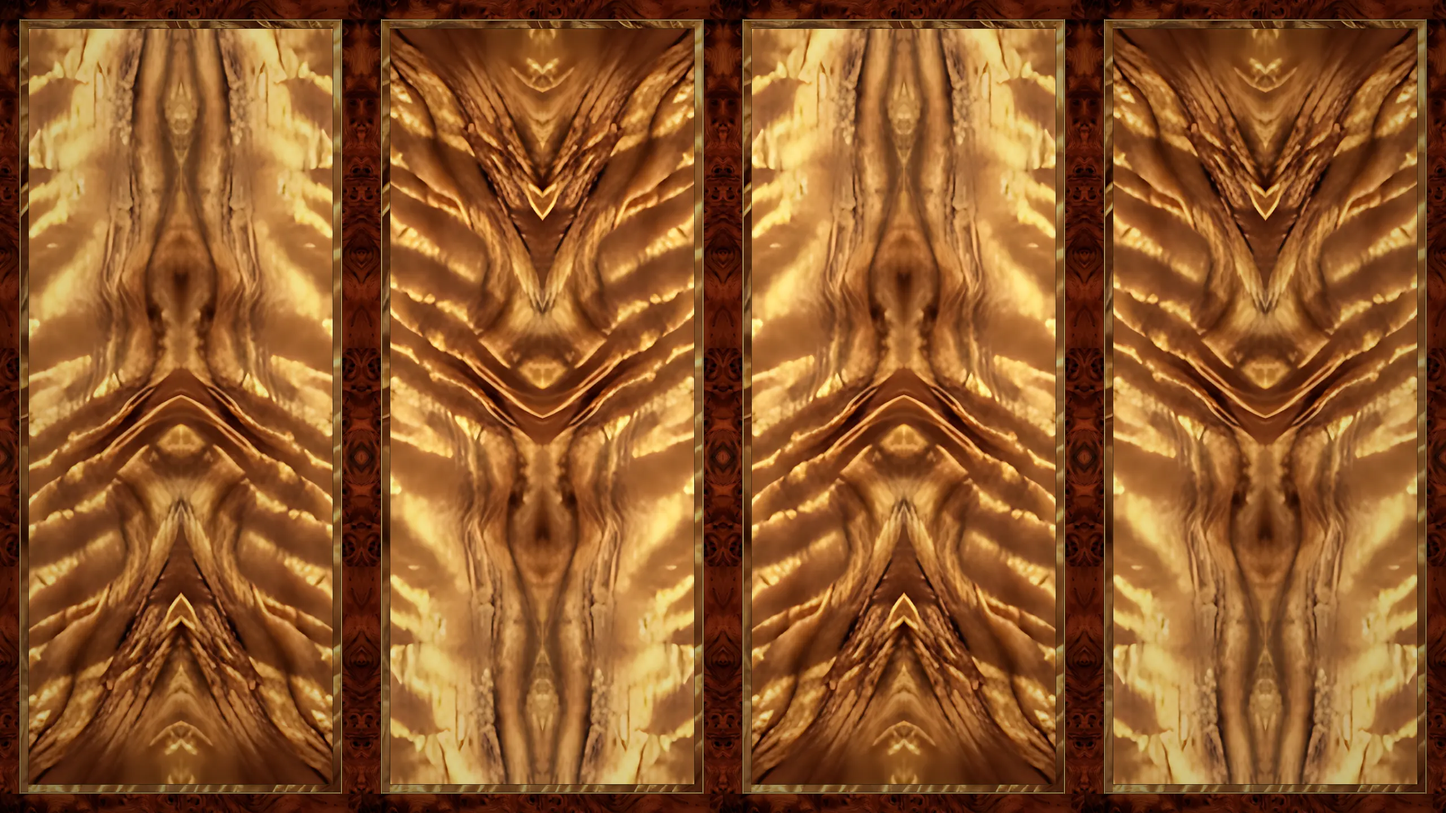
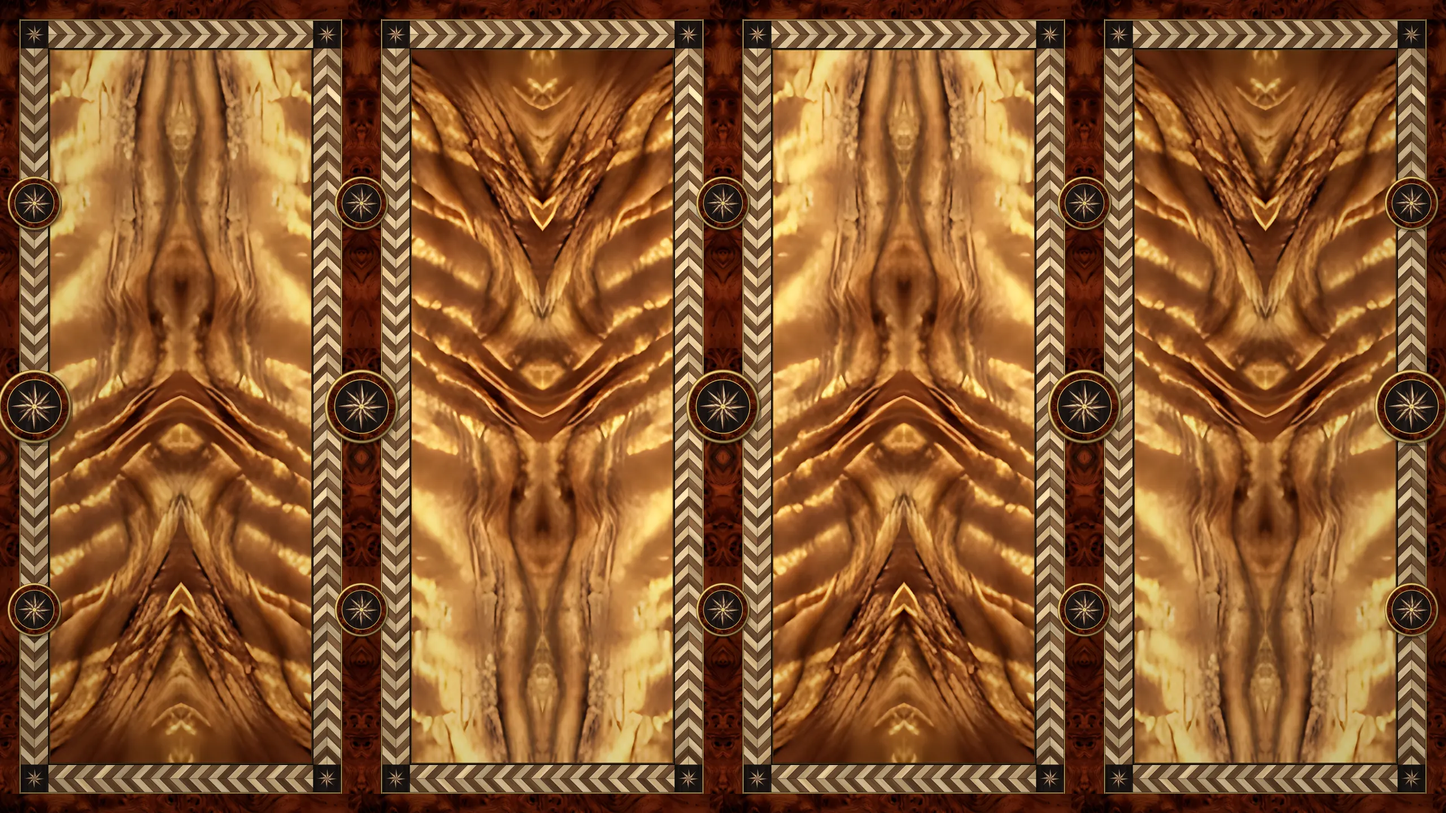
0.95: scritte chiare, intarsi sui lati, orologio e data in alto

diff --git a/style.css b/style.css
@@ -2057,3 +2057,82 @@ body.lusso[data-legno="intarsio"] .casa-card.tre{--fin-t:8.6%;--fin-r:15.4%;--fi
 .sofia-hero[data-stato="ascolto"] .casa-card.tre{--tre-scala:1.135}
 /* i tondi (voce e menu) in basso a destra, cosi' non le coprono la testa */
 .sofia-hero .casa-card.tre .casa-tondi{z-index:5;top:auto;bottom:calc(var(--fin-b) + 10px);right:calc(var(--fin-r) + 10px)}
+
+/* =====================================================================================================
+   0.95 - SCRITTE CHIARE (Michele: "rendi piu' chiare tutte le scritte perche' cosi' non si capisce niente")
+   Regole per tutta la parte del titolare (stili di lusso): niente scritte direttamente sul legno (sempre su una
+   targa piena e scura), testo scuro e pieno sulle schede avorio (che non lasciano piu' trasparire il legno),
+   niente corsivi sottili, niente scritte sotto i 12 px, niente tasti "spenti" mezzi trasparenti.
+   ===================================================================================================== */
+body.lusso{--fg:#1F140A;--muted:#46362A;--muted2:#55432F;--card:#FBF5E8;--card-pieno:#FFFAF1;--line:rgba(70,45,15,.18);--line2:rgba(70,45,15,.12)}
+:root[data-theme="dark"] body.lusso{--fg:#FFF6E6;--muted:#E8D9BC;--muted2:#DACAA8;--card:#24170F;--card-pieno:#2A1B12;--line:rgba(255,230,180,.18);--line2:rgba(255,230,180,.12)}
+body.lusso .small{font-size:14.5px}
+body.lusso .day{font-size:11.5px}
+body.lusso .day b{font-size:18px}
+body.lusso .tabs button{font-size:13px;letter-spacing:.02em;padding:10px 4px}
+body.lusso .seg button{font-size:13px}
+body.lusso .badge{font-size:12.5px}
+body.lusso .btnsm{font-size:13px}
+body.lusso .el-pill,body.lusso .tess-flag{font-size:12px}
+body.lusso .tess-pr{font-size:13px}
+body.lusso .tess-osp{font-size:14px}
+body.lusso .piano-eti{font-size:13px;letter-spacing:.08em;color:var(--fg)}
+body.lusso .sig-nome{font-size:13px}
+body.lusso .sig-sotto{font-size:13px}
+body.lusso .el-camera-ancora{font-size:13px}
+body.lusso .floorlabel{font-size:14px;color:var(--fg)}
+body.lusso .come-si-vede h3{font-size:14px;color:var(--fg)}
+body.lusso .casa-t{font-size:12.5px}
+body.lusso h1 small{font:600 13.5px var(--f-body);color:#F6EAD2}
+body.lusso h1 .fl{color:#F6EAD2}
+/* i tasti che non si possono toccare (es. "Segna come pagata" a 0 euro): niente mezza trasparenza, si leggono lo stesso */
+body.lusso button:disabled,body.lusso .btnsm:disabled,body.lusso .big:disabled{opacity:1;background:#E8DECB!important;color:#5E4E3A!important;text-shadow:none!important;box-shadow:inset 0 0 0 1px rgba(90,62,20,.35)!important;filter:none}
+:root[data-theme="dark"] body.lusso button:disabled,:root[data-theme="dark"] body.lusso .btnsm:disabled,:root[data-theme="dark"] body.lusso .big:disabled{background:#3A2A1E!important;color:#D2BE9E!important}
+/* le scritte che stavano sulla parete: avorio pieno */
+body.lusso .card.flat>p.muted,body.lusso .card.flat>.muted,body.lusso main>.muted,body.lusso main>p,body.lusso .banner.info{color:var(--avorio)}
+body.lusso .cc-scelto{color:var(--avorio)}
+/* la prima pagina: saluto, frase e consiglio su una targa scura con il filo d'oro (prima erano sul legno) */
+body.lusso .casa-testo{position:relative;padding:14px 16px 12px;border-radius:16px;background:linear-gradient(180deg,rgba(30,15,7,.94),rgba(18,8,3,.96));border:1px solid rgba(214,175,92,.9);box-shadow:inset 0 0 0 3px rgba(18,8,3,.95),inset 0 0 0 4px rgba(214,175,92,.4),0 12px 26px -14px rgba(0,0,0,.95);gap:7px}
+body.lusso[data-legno="legno"] .casa-testo{background:linear-gradient(180deg,rgba(28,12,5,.9),rgba(16,7,2,.93)),url(radica.webp) center/cover}
+body.lusso .casa-testo::before,body.lusso[data-legno="legno"] .casa-testo::before{content:none;display:none}
+body.lusso .casa-sal{color:#FFF8EA;text-shadow:0 1px 2px rgba(0,0,0,.6);font-size:clamp(19px,5.4vw,23px);line-height:1.25;-webkit-line-clamp:4}
+body.lusso .casa-sal.lunga{font-size:clamp(17px,4.7vw,20px)}
+body.lusso .casa-riga{color:#F5EBD8;font-size:clamp(15px,4vw,16.5px);font-weight:500;line-height:1.4;text-shadow:none;-webkit-line-clamp:3}
+body.lusso .casa-spinta{font-family:var(--f-body);font-style:normal;font-weight:600;color:#F3D68E;font-size:clamp(14.5px,3.9vw,16px);line-height:1.4;text-shadow:none}
+body.lusso .casa-info{color:#EAD7AE;font-size:12.5px;letter-spacing:.05em;text-shadow:none;white-space:normal;overflow:visible;text-overflow:clip;line-height:1.45}
+/* Legno d'oro: testata piu' scura (il titolo d'oro e la riga sotto si leggono), schede in alto chiare e calme
+   con le scritte scure, quella scelta scura con le lettere d'oro; targhe di radica piu' scure */
+body.lusso[data-legno="legno"] header{background:linear-gradient(180deg,rgba(20,8,3,.42),rgba(10,4,1,.62)),url(radica.webp) center/cover}
+body.lusso[data-legno="legno"] .tabs{background:linear-gradient(180deg,rgba(255,247,226,.66),rgba(250,236,200,.58)),url(legno-oro.webp) center/cover}
+body.lusso[data-legno="legno"] .tabs button{color:#1F1108;text-shadow:0 1px 0 rgba(255,250,235,.8)}
+body.lusso[data-legno="legno"] .tabs button[aria-pressed="true"]{background:linear-gradient(180deg,#3E2414,#1E0F07);color:#F8E4AF;text-shadow:0 1px 1px rgba(0,0,0,.6);box-shadow:inset 0 0 0 1.5px #C9A55A,0 2px 6px rgba(0,0,0,.45)}
+body.lusso[data-legno="legno"] .card.flat{background:linear-gradient(180deg,rgba(26,11,4,.86),rgba(16,7,2,.9)),url(radica.webp) center/cover}
+/* schede avorio PIENE: prima lasciavano trasparire un filo di legno dietro alle parole */
+body.lusso .card:not(.flat),body.lusso .conferma-box,body.lusso .menu,body.lusso .rows,body.lusso .board-wrap{background:linear-gradient(180deg,#FFFBF3 0%,#FAF3E4 55%,#F4EAD6 100%)}
+/* Piantine: le camere senza niente da fare avevano il nome grigio chiaro */
+body.lusso .tess.idle{--tx:#2E2418;--tx2:#4A3B2A;--metal:linear-gradient(180deg,#4A3B2A,#2A1E12)}
+/* la foto di Sofia un filo piu' bassa, cosi' con le scritte piu' grandi i tasti restano vicini */
+body.lusso .casa-card{height:min(calc(50svh - 16px),calc(84vw * 16 / 9))}
+@media (min-width:760px){body.lusso .casa-card{height:min(calc(50svh - 16px),480px)}}
+/* 0.95 - OROLOGIO E DATA: due medaglioni di radica e oro (come i rosoni della parete) ai lati della targa in alto.
+   Quadrante d'acero con gli indici d'ebano intarsiati (orologio-quadrante.webp), lancette d'ebano filettate d'oro,
+   lancetta dei secondi bordeaux; il datario (datario-quadrante.webp) con SAB / 24 / OTT scuri sull'acero. */
+.casa-orologio,.casa-data{display:none}
+body.lusso .casa-testa{position:relative;--med:clamp(60px,17vw,80px)}
+body.lusso .sofia-hero:not([data-orologio="no"]) .casa-orologio,body.lusso .sofia-hero:not([data-orologio="no"]) .casa-data{position:absolute;top:50%;width:var(--med);height:var(--med);margin-top:calc(var(--med) / -2 + 8px);border-radius:50%;background:url(orologio-quadrante.webp) center/100% 100% no-repeat;filter:drop-shadow(0 6px 9px rgba(0,0,0,.6));z-index:2}
+body.lusso .sofia-hero:not([data-orologio="no"]) .casa-orologio{display:block;left:0}
+body.lusso .sofia-hero:not([data-orologio="no"]) .casa-data{display:flex;flex-direction:column;align-items:center;justify-content:center;right:0;background-image:url(datario-quadrante.webp);color:#1E1009;line-height:1;gap:1px}
+.casa-orologio i{position:absolute;left:50%;bottom:50%;transform-origin:50% 100%;border-radius:999px}
+.casa-orologio .or-h{width:7%;height:23%;margin-left:-3.5%;background:linear-gradient(90deg,#3A2414,#160B05);box-shadow:0 0 0 1px rgba(214,175,92,.95),0 1px 2px rgba(0,0,0,.45);transform:rotate(var(--oh,0deg))}
+.casa-orologio .or-m{width:4.8%;height:34%;margin-left:-2.4%;background:linear-gradient(90deg,#3A2414,#160B05);box-shadow:0 0 0 1px rgba(214,175,92,.95),0 1px 2px rgba(0,0,0,.45);transform:rotate(var(--om,0deg))}
+.casa-orologio .or-s{width:1.8%;height:39%;margin-left:-.9%;background:#8E1F1F;box-shadow:0 1px 1px rgba(0,0,0,.35);transform:rotate(var(--os,0deg))}
+.casa-orologio .or-c{top:50%;bottom:auto;width:12%;height:12%;margin:-6% 0 0 -6%;border-radius:50%;background:radial-gradient(circle at 35% 35%,#FFF1C2,#C9A55A 55%,#6B4A14)}
+.casa-data b{display:block;font-variant-numeric:tabular-nums}
+.casa-data .dt-g,.casa-data .dt-m{font:800 calc(var(--med) * .14)/1 var(--f-display);letter-spacing:.03em;color:#3E1E0E}
+.casa-data .dt-n{font:700 calc(var(--med) * .32)/.95 var(--f-lusso);color:#1A0D06;margin:0}
+/* telefoni stretti: la targa un filo piu' compatta, cosi' i due medaglioni non la toccano */
+@media (max-width:400px){
+  body.lusso .casa-testa{--med:clamp(54px,16vw,64px)}
+  body.lusso .casa-nome{font-size:12.5px;letter-spacing:.16em}
+  body.lusso[data-legno="legno"] .casa-nome{padding:5px 12px}
+}

diff --git a/app.js b/app.js
@@ -16,7 +16,7 @@ import * as VOCE from "./voce.js";
 import * as GESTI from "./gesti.js";
 import * as BOCCA from "./bocca.js";
 
-export const VERSIONE = "0.94.0";
+export const VERSIONE = "0.95.0";
 
 // Icone (SVG semplici, tratto 2px). Si usano con ICONA("nome").
 const ICONE_SVG = {
@@ -196,6 +196,40 @@ try {
     TRE.ult = performance.now(); TRE.fermoDa = 0;
   }, { passive: true });
 } catch (e) {}
+// 0.95: OROLOGIO E DATA (Michele: "magari anche un orologio con data da qualche parte, ma sempre stile questo").
+// Due medaglioni di radica e oro ai lati della targa "Le Stanze di Ricci", in alto nella schermata di casa:
+// a sinistra l'orologio (quadrante d'acero con gli indici d'ebano, lancette vere), a destra la data (SAB / 24 / OTT).
+// Solo negli stili di lusso del titolare. Si toglie da "Come si vede l'app" -> "6. Orologio e data".
+const CHIAVE_OROLOGIO = "ricci_orologio";
+function orologioVoluto() { try { return localStorage.getItem(CHIAVE_OROLOGIO) !== "no"; } catch (e) { return true; } }
+const OROLOGIO_HTML = `<span class="casa-orologio" role="img" aria-label="Ora"><i class="or-h"></i><i class="or-m"></i><i class="or-s"></i><i class="or-c"></i></span>`;
+const DATARIO_HTML = `<span class="casa-data" role="img" aria-label="Data"><b class="dt-g"></b><b class="dt-n"></b><b class="dt-m"></b></span>`;
+let orologioTimer = null;
+function orologioGira() {
+  const o = document.querySelector(".casa-orologio");
+  if (!o) { clearInterval(orologioTimer); orologioTimer = null; return; }
+  if (document.hidden) return;
+  const d = new Date();
+  const s = d.getSeconds(), m = d.getMinutes() + s / 60, h = (d.getHours() % 12) + m / 60;
+  o.style.setProperty("--oh", (h * 30).toFixed(2) + "deg");
+  o.style.setProperty("--om", (m * 6).toFixed(2) + "deg");
+  o.style.setProperty("--os", (s * 6) + "deg");
+  o.setAttribute("aria-label", "Sono le " + d.getHours() + " e " + String(d.getMinutes()).padStart(2, "0"));
+  const dt = document.querySelector(".casa-data");
+  if (dt) {
+    const chiave = d.toDateString();
+    if (dt.dataset.giorno !== chiave) {
+      dt.dataset.giorno = chiave;
+      const pulisci = (x) => String(x || "").replace(/\./g, "").toUpperCase();
+      const g = dt.querySelector(".dt-g"), n = dt.querySelector(".dt-n"), mm = dt.querySelector(".dt-m");
+      if (g) g.textContent = pulisci(d.toLocaleDateString("it-IT", { weekday: "short" })).slice(0, 3);
+      if (n) n.textContent = String(d.getDate());
+      if (mm) mm.textContent = pulisci(d.toLocaleDateString("it-IT", { month: "short" })).slice(0, 3);
+      dt.setAttribute("aria-label", d.toLocaleDateString("it-IT", { weekday: "long", day: "numeric", month: "long" }));
+    }
+  }
+}
+function orologioAvvia() { orologioGira(); if (!orologioTimer) orologioTimer = setInterval(orologioGira, 1000); }
 // il punto del filmato `a` che somiglia di piu' al punto `t` (secondi) del filmato `da`
 function filmPuntoAbbinato(da, a, t) {
   const j = FILM_ABBINA; const lista = j && j.da && j.da[da] && j.da[da][a];
@@ -1778,7 +1812,7 @@ const CASA_ICO = {
   voceNo: `<svg viewBox="0 0 24 24" width="21" height="21" fill="none" stroke="currentColor" stroke-width="2" stroke-linecap="round" stroke-linejoin="round"><path d="M11 5 6 9H3v6h3l5 4z"/><path d="m16 9 5 6"/><path d="m21 9-5 6"/></svg>`,
 };
 function casaOssatura(tre) {
-  return `<div class="casa-testa"><span class="casa-nome">Le Stanze di Ricci</span></div>
+  return `<div class="casa-testa">${OROLOGIO_HTML}<span class="casa-nome">Le Stanze di Ricci</span>${DATARIO_HTML}</div>
     <div class="casa-card${tre ? " tre" : ""}">
       ${tre ? `<span class="casa-fondo" aria-hidden="true"></span><span class="tre-luce" aria-hidden="true"></span>` : ""}
       ${FILM_CONS("casa-fig", tre)}
@@ -1929,8 +1963,10 @@ function disegnaCasa() {
   }
   document.body.classList.add("ha-casa");
   h.dataset.stile = stileCasa();
+  h.dataset.orologio = orologioVoluto() ? "" : "no";
   casaAggiorna(h);
   if (tre) treAvvia();
+  orologioAvvia();
 }
 
 // ---------------------------------------------------------------------------
@@ -2016,7 +2052,7 @@ function cardStileCasa() {
   const anteprima = (id) => `<span class="st-prev st-${id}"><i class="st-card"></i><i class="st-bar"></i><i class="st-bar"></i><i class="st-bar"></i></span>`;
   return `<section class="card come-si-vede">
     <h2>Come si vede l'app</h2>
-    <p class="muted small" style="margin:0 0 6px">Cinque cose che puoi cambiare da solo, quando vuoi: si vede subito e puoi sempre tornare indietro.</p>
+    <p class="muted small" style="margin:0 0 6px">Sei cose che puoi cambiare da solo, quando vuoi: si vede subito e puoi sempre tornare indietro.</p>
     <h3>1. Il colore</h3>
     <div class="col-scelte">${COLORI_APP.map(k => `<button type="button" class="col-opt" aria-pressed="${coloreAttivo() === k.id}" data-colore-app="${k.id}"><i style="background:${k.g}"></i>${esc(k.nome)}</button>`).join("")}</div>
     <span class="small muted">Cambia il colore dei tasti e dei collegamenti. Tutto il resto resta com'è.</span>
@@ -2034,6 +2070,9 @@ function cardStileCasa() {
       : motoRidotto()
         ? `Il telefono è impostato per avere meno movimento: ${esc(nomeGov())} resta piatta.`
         : `In 3D esce un po' dalla cornice e, quando muovi il telefono, il salone dietro di lei si sposta. "Piatta" la rimette esattamente com'era.`}</span>
+    <h3>6. Orologio e data</h3>
+    <div class="seg"><button type="button" aria-pressed="${orologioVoluto()}" data-orologio-scelta="si">Sì</button><button type="button" aria-pressed="${!orologioVoluto()}" data-orologio-scelta="no">No</button></div>
+    <span class="small muted">I due medaglioni di legno e oro in alto, ai lati di "Le Stanze di Ricci": l'orologio a sinistra, la data a destra.</span>
   </section>`;
 }
 function cardConsuela() {
@@ -4855,6 +4894,7 @@ function collega() {
   document.querySelectorAll("[data-tacc-togli]").forEach(b => b.onclick = async () => { const id = b.dataset.taccTogli; try { await salvaTaccuino(taccuinoVoci().filter(x => x.id !== id)); toast("Tolto dal taccuino"); } catch (e) { erroreScrittura(e); } });
   document.querySelectorAll("[data-tacc-aggiungi]").forEach(b => b.onclick = async () => { const i = $("#taccNuovo"); const t = String((i && i.value) || "").trim(); if (!t) return; if (i) i.value = ""; try { const fatto = await ricordaNelTaccuino(t, "michele"); toast(fatto ? "Segnato nel taccuino" : "C'è già"); } catch (e) { if (i) i.value = t; erroreScrittura(e); } });
   document.querySelectorAll("[data-sfondo-app]").forEach(b => b.onclick = () => { S.sfondo = b.dataset.sfondoApp; try { localStorage.setItem("ricci_stile2", S.sfondo); } catch (e) {} applicaTema(); disegna(); toast("Stile: " + ((SFONDI_APP.find(f => f.id === S.sfondo) || {}).nome || S.sfondo)); });
+  document.querySelectorAll("[data-orologio-scelta]").forEach(b => b.onclick = () => { try { localStorage.setItem(CHIAVE_OROLOGIO, b.dataset.orologioScelta); } catch (e) {} disegna(); toast(b.dataset.orologioScelta === "no" ? "Orologio e data tolti" : "Orologio e data in alto"); });
   document.querySelectorAll("[data-sofia3d]").forEach(b => b.onclick = () => { try { localStorage.setItem(CHIAVE_3D, b.dataset.sofia3d); } catch (e) {} disegna(); toast(b.dataset.sofia3d === "no" ? nomeGov() + " piatta, come prima" : (ALFA_OK === "no" ? "Su questo telefono il 3D non si può fare" : nomeGov() + " in 3D")); });
   document.querySelectorAll("[data-esci]").forEach(b => b.onclick = async () => { if (await chiedi("Vuoi uscire dall'app? Per rientrare servirà la password.", { si: "Sì, esco" })) S.db.esci(); });
   document.querySelectorAll("[data-esporta]").forEach(b => b.onclick = () => b.dataset.esporta === "xlsx" ? esportaExcel() : esportaTutto());

diff --git a/sw.js b/sw.js
@@ -3,12 +3,12 @@
 //  Quando si pubblica una versione nuova bisogna cambiare il numero qui sotto:
 //  così i telefoni si accorgono dell'aggiornamento.
 // ============================================================================
-const VERSIONE = "0.94.0";
+const VERSIONE = "0.95.0";
 const CACHE = "ricci-pulizie-" + VERSIONE;
 const FILE_BASE = [
   "./", "./index.html", "./style.css", "./app.js", "./db.js", "./logica.js", "./regole.js",
   "./excel.js", "./dettatura.js", "./governante.js", "./chat.js", "./parole.js", "./ia.js", "./voce.js", "./gesti.js", "./catalogo.js", "./firebase-config.js", "./firebase-bundle.js", "./manifest.json", "./sfondo-laguna.svg", "./sfondo-manutenzione.svg", "./sfondo-bolle.svg",
-  "./icon-192.png", "./icon-512.png", "./icon-maskable-512.png", "./apple-touch-icon.png", "./cons-parla.mp4", "./cons-riposo.mp4", "./cons-film.json", "./cons-poster.webp", "./cons-poster-3d.webp", "./cons-fondo-3d.webp",
+  "./icon-192.png", "./icon-512.png", "./icon-maskable-512.png", "./apple-touch-icon.png", "./cons-parla.mp4", "./cons-riposo.mp4", "./cons-film.json", "./cons-poster.webp", "./cons-poster-3d.webp", "./cons-fondo-3d.webp", "./orologio-quadrante.webp", "./datario-quadrante.webp",
   "./bocca.js", "./viso.js", "./cons-base.webp", "./cons-indica.webp", "./cons-cuore.webp", "./cons-pollice.webp", "./cons-osx.webp", "./cons-odx.webp", "./cons-osu.webp", "./cons-scena.webp", "./cons-saluto.webp", "./cons-riposo.webp", "./cons-b1.webp", "./cons-b2.webp", "./cons-b3.webp", "./cons-occhi.webp", "./cons-felice.webp", "./cons-testa.webp", "./cons-testa-occhi.webp",
   "./fonts/montserrat-latin-500-normal.woff2", "./fonts/montserrat-latin-600-normal.woff2", "./fonts/montserrat-latin-700-normal.woff2", "./fonts/montserrat-latin-800-normal.woff2",
   "./legno-oro-parete.webp", "./cornice-legno.webp", "./radica.webp", "./legno-oro.webp", "./fascia-mogano.webp", "./fonts/playfair-display-latin-600-normal.woff2", "./fonts/playfair-display-latin-400-italic.woff2",
